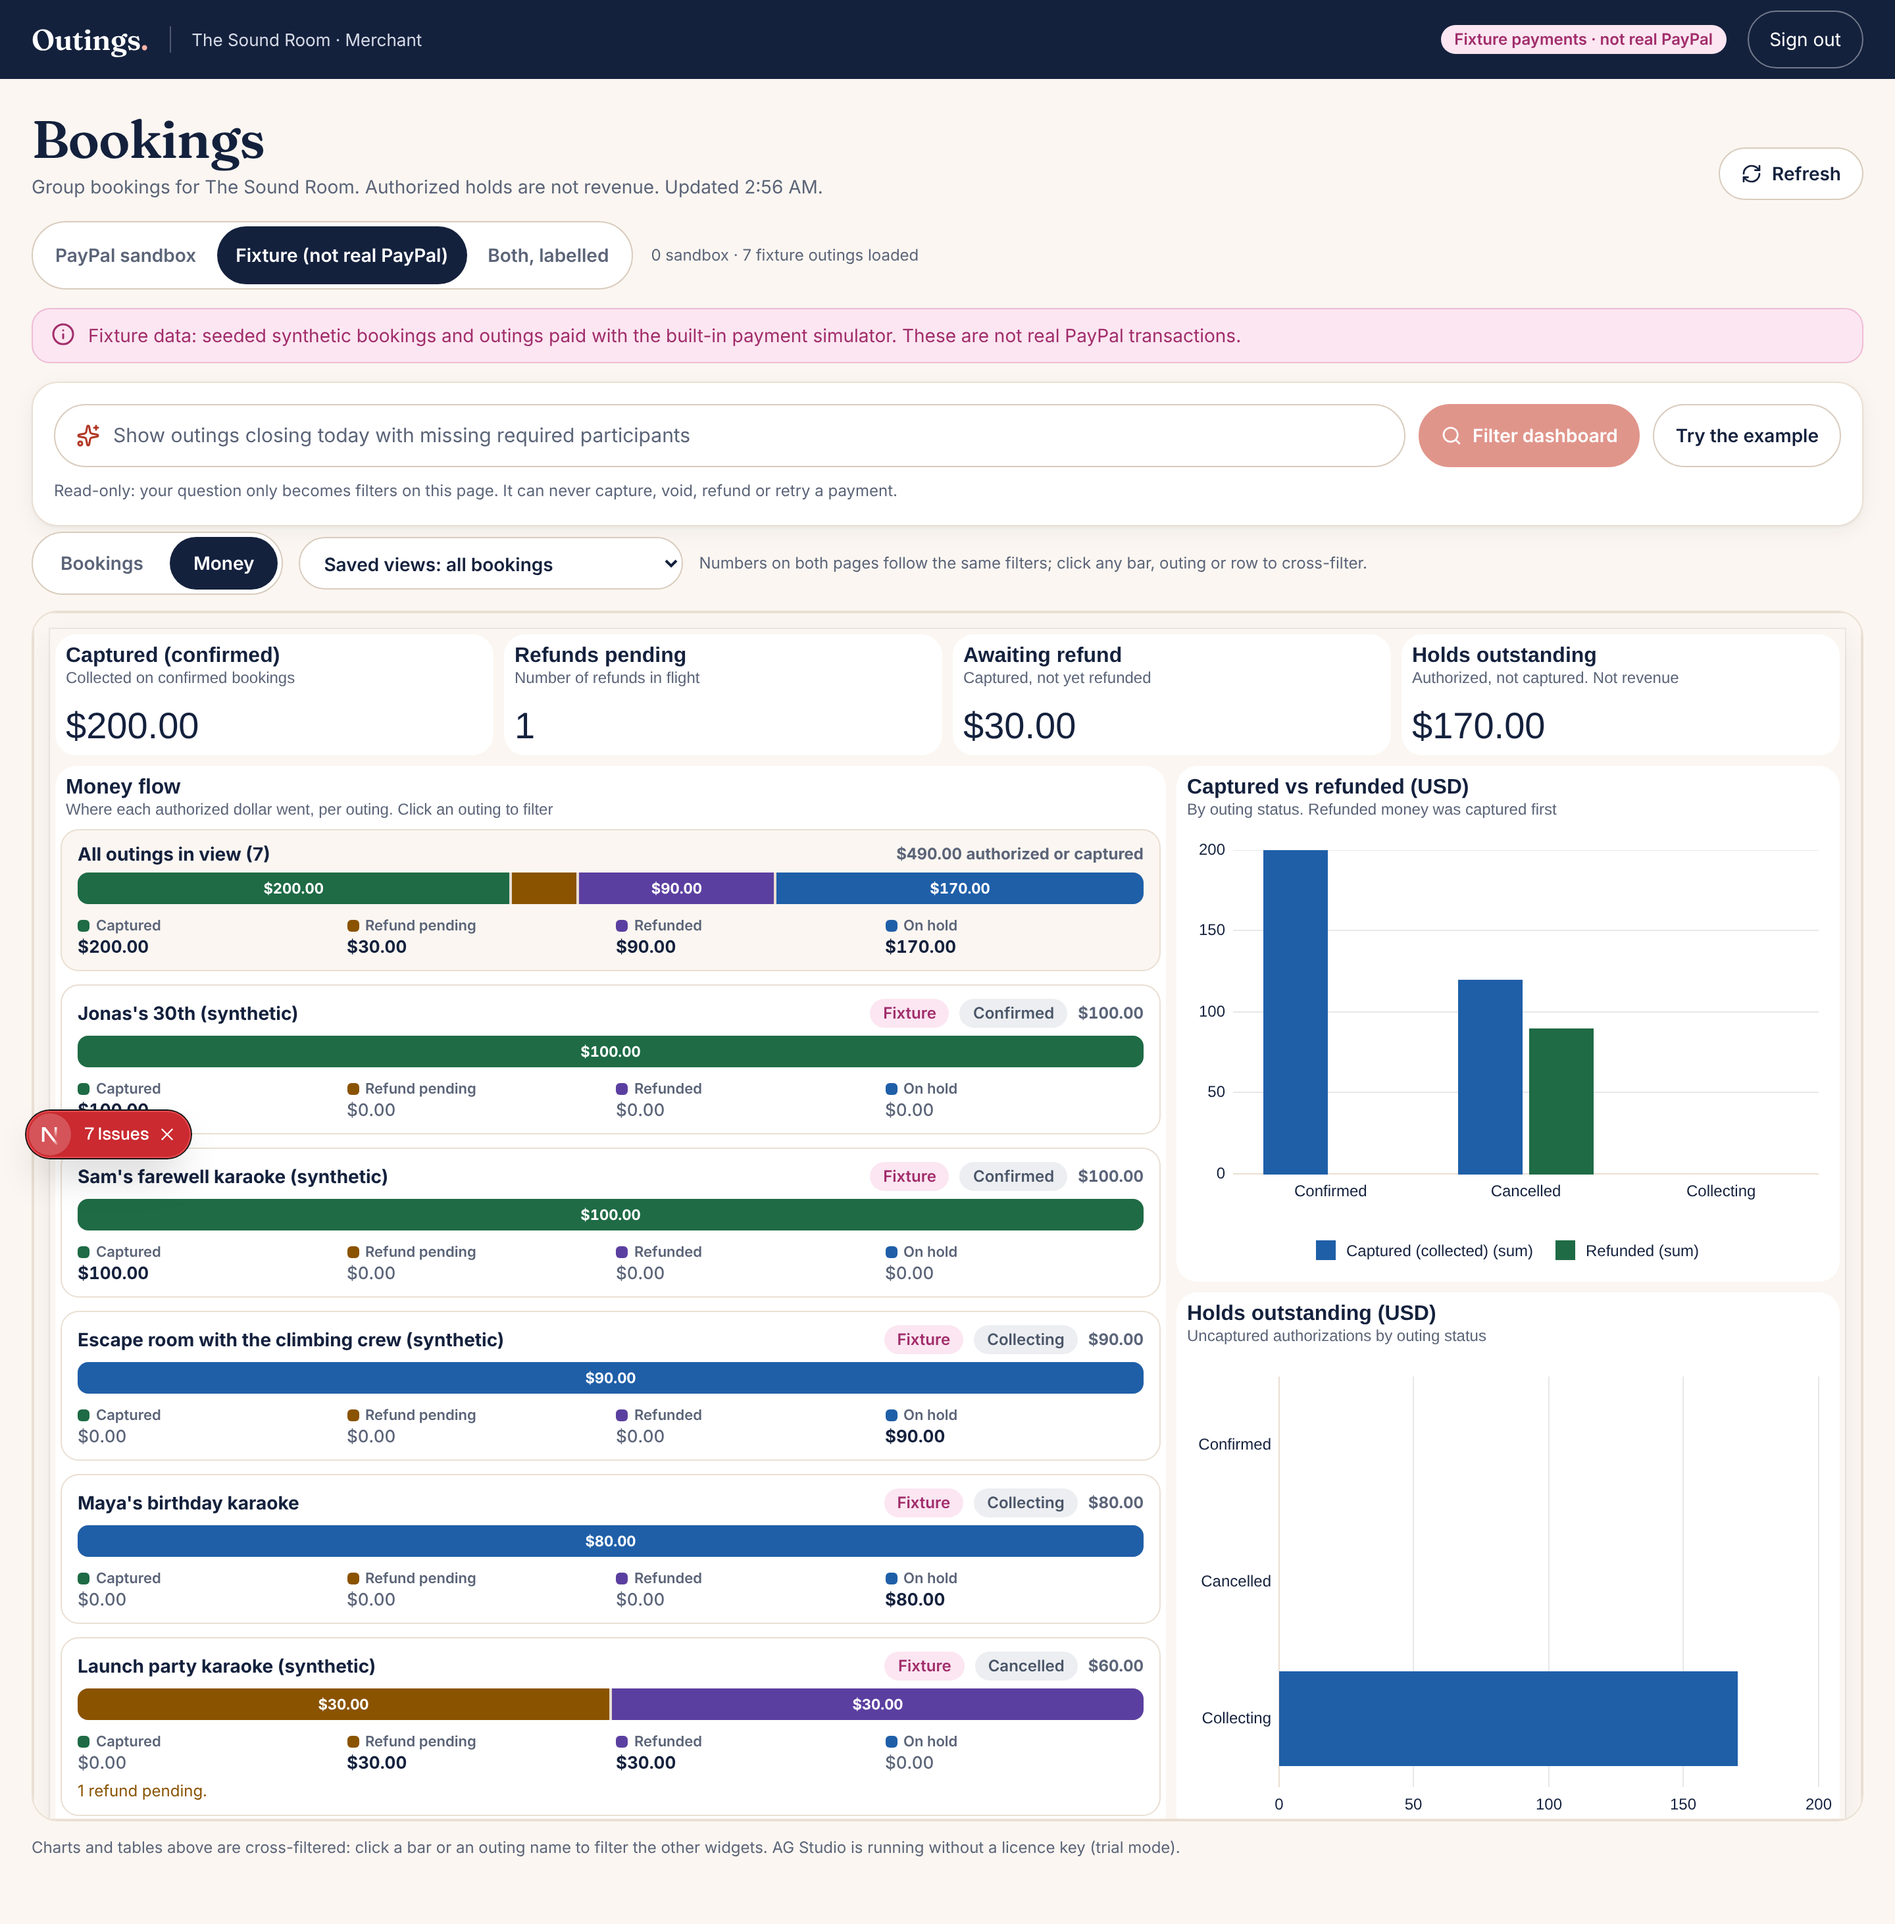
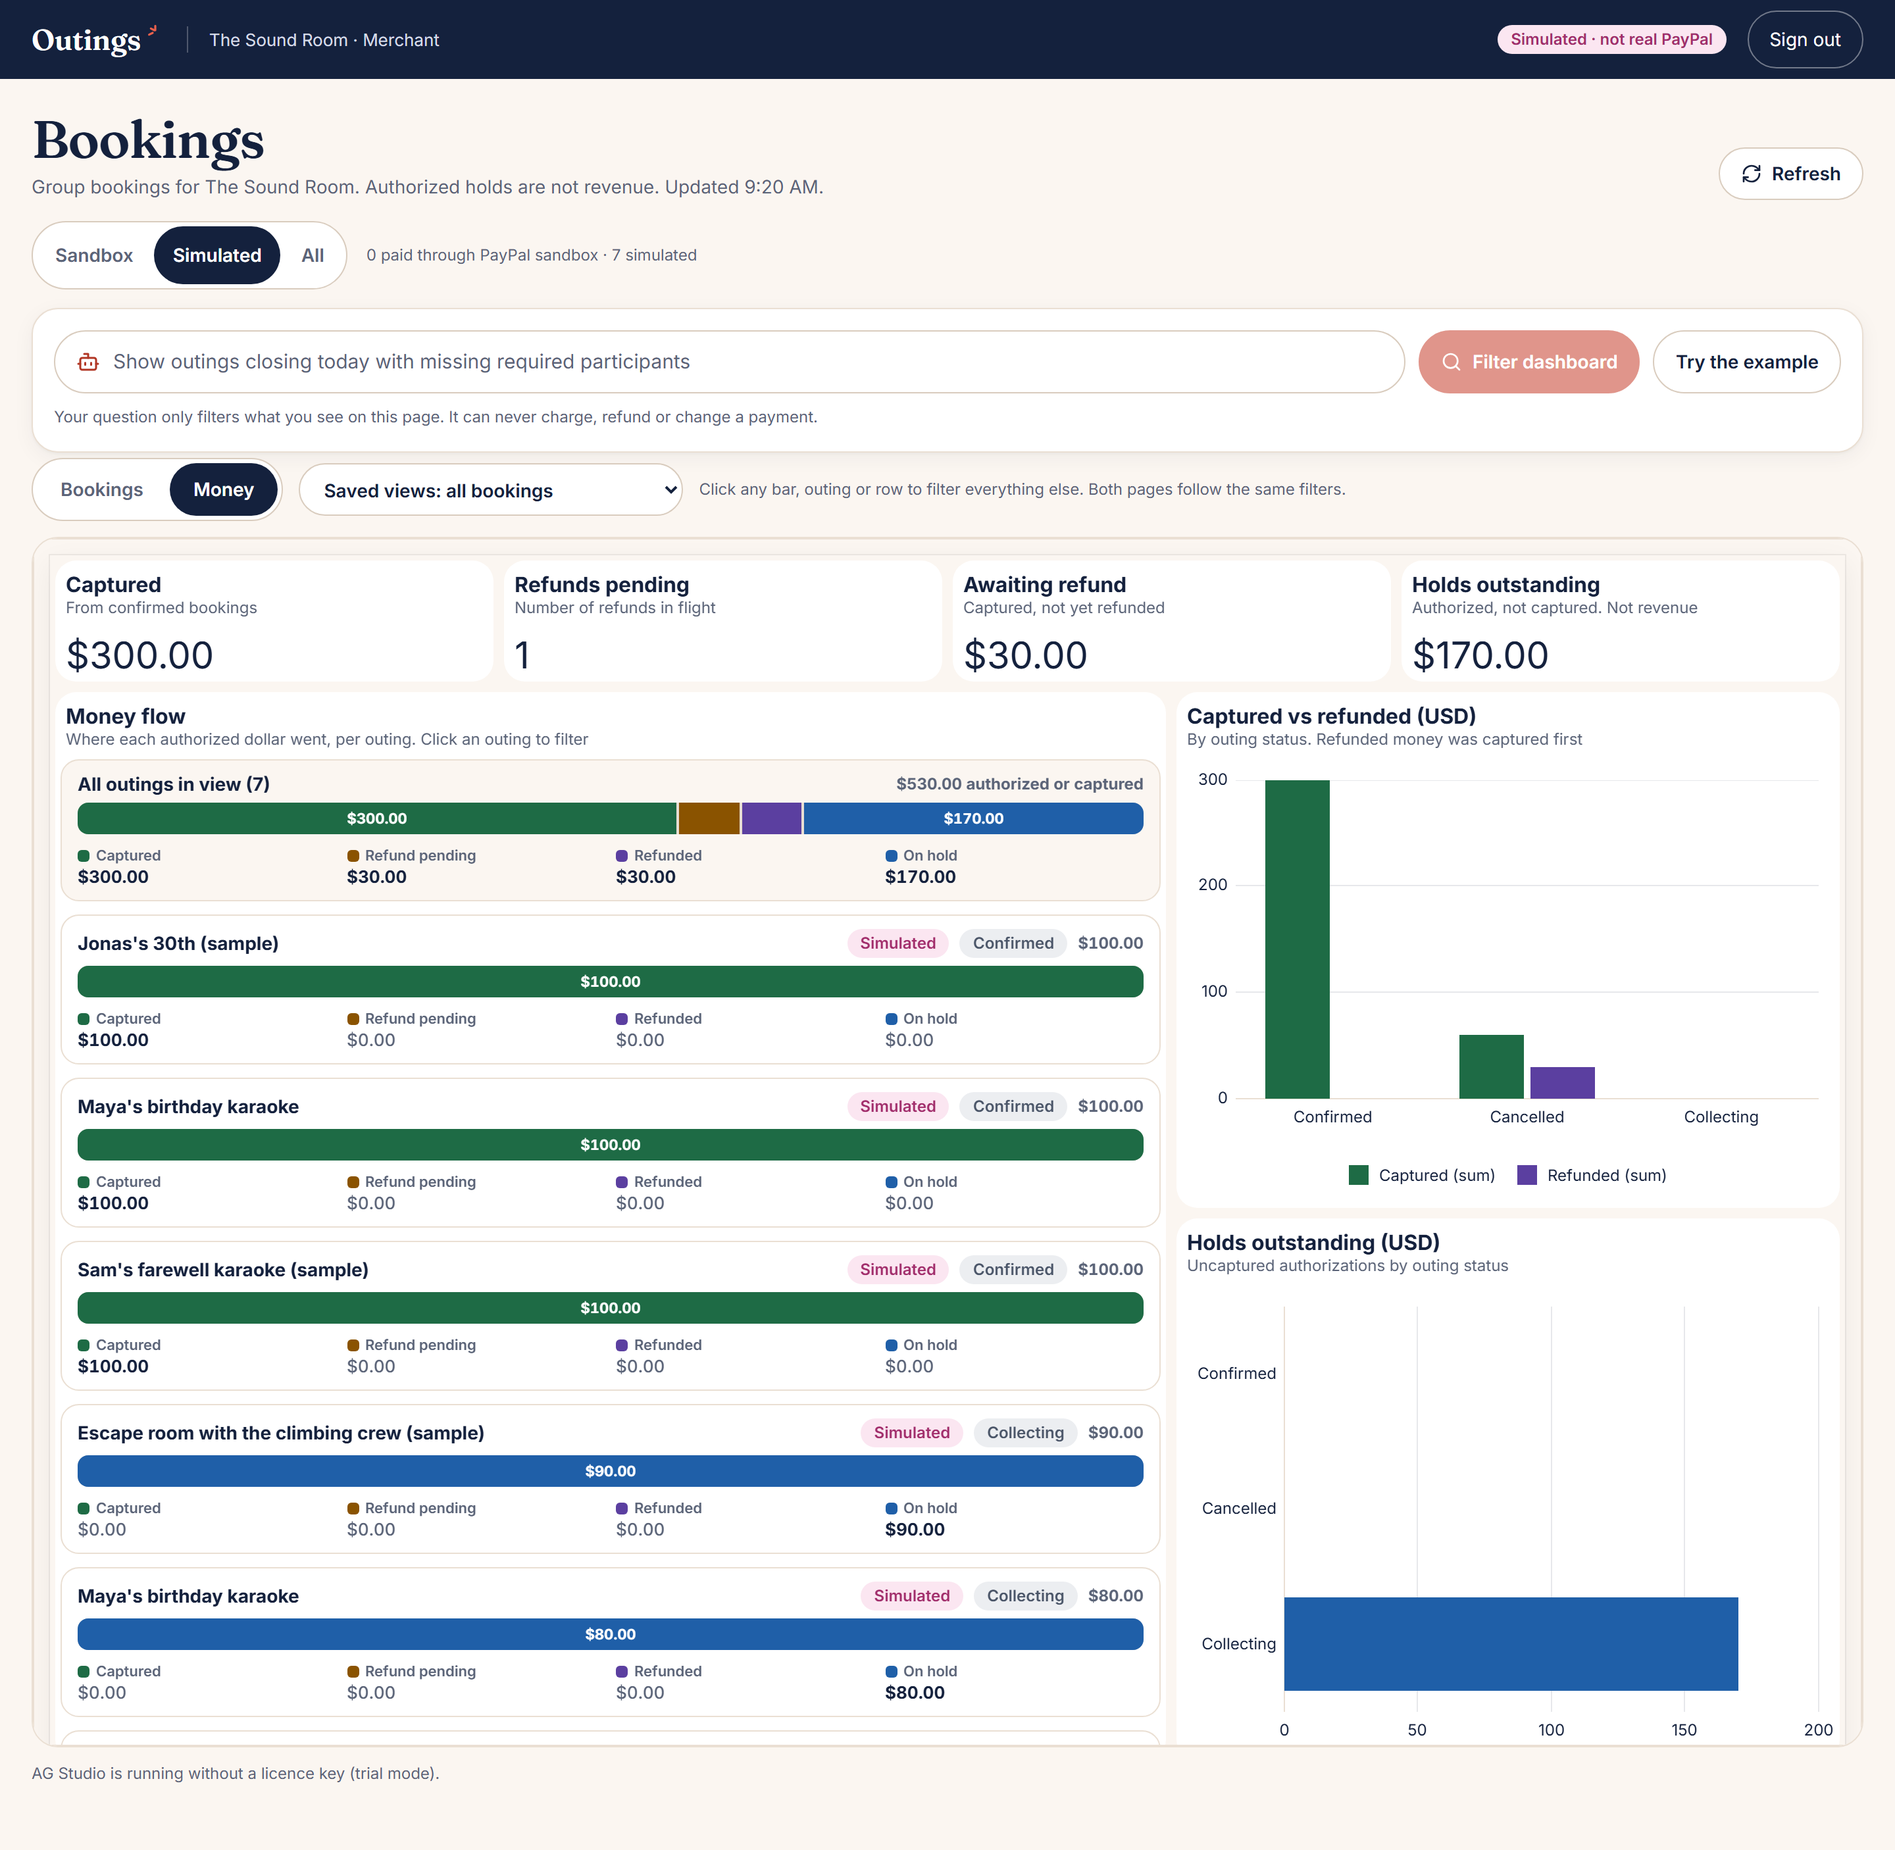
Devpost paste sheet, and the last two stale screenshots
- docs/DEVPOST_PASTE.md: the ready-to-paste Devpost fields, carried
  over from the demo-video branch (the only place it existed) and
  brought up to date: "Simulated" / "Sample" labels, per-person budget
  poker, the hosted demo link, and a gallery built from the repo's own
  screenshots since the owner records the video personally.
- The karaoke e2e now also shoots /how-it-works and the dashboard's
  Money page, so every screenshot the docs use comes from the current
  production build.

Verified: tsc and eslint clean; the karaoke e2e passes with the new
shots. Full suites last ran on 218e2c2 (vitest 527/527, Playwright 8/8);
only this spec, screenshots and docs changed since.

diff --git a/tests/e2e/karaoke.spec.ts b/tests/e2e/karaoke.spec.ts
@@ -46,6 +46,9 @@ test("karaoke for Maya: plan, vote privately, commit, settle at the deadline, me
     await visitor.page.goto("/");
     await expect(visitor.page.getByRole("heading", { level: 1 })).toBeVisible();
     await shot(visitor.page, "landing", { fullPage: false });
+    await visitor.page.goto("/how-it-works");
+    await expect(visitor.page.getByRole("heading", { level: 1 })).toBeVisible();
+    await shot(visitor.page, "how-it-works");
   });
 
   await test.step("(a) organizer writes the brief and sees what the (sample) AI understood", async () => {
@@ -285,6 +288,15 @@ test("karaoke for Maya: plan, vote privately, commit, settle at the deadline, me
     // AG Studio renders charts asynchronously; wait until no widget is still loading.
     await expect(page.locator("#studio-frame").getByText("Loading...").filter({ visible: true })).toHaveCount(0, { timeout: 30_000 });
     await shot(page, "merchant-dashboard");
+
+    // The Money page: where each authorized dollar went.
+    const loading = page.locator("#studio-frame").getByText("Loading...").filter({ visible: true });
+    await page.getByRole("tab", { name: "Money", exact: true }).click();
+    await expect(page.getByRole("tab", { name: "Money", exact: true })).toHaveAttribute("aria-selected", "true");
+    await expect(loading).toHaveCount(0, { timeout: 30_000 });
+    await shot(page, "merchant-money");
+    await page.getByRole("tab", { name: "Bookings", exact: true }).click();
+    await expect(loading).toHaveCount(0, { timeout: 30_000 });
 
     // Natural-language query becomes read-only filters (FIXTURE parser here, and labelled as such).
     await page.getByRole("button", { name: "Try the example" }).click();

diff --git a/docs/DEVPOST_PASTE.md b/docs/DEVPOST_PASTE.md
@@ -1,0 +1,98 @@
+# Devpost: ready-to-paste fields
+
+Copy each block into the matching Devpost field. Lines marked **[A]** apply only if real Claude has been verified (`npx tsx scripts/ai-smoke.ts` was run with the key and its evidence file is committed under `docs/evidence/`). Lines marked **[B]** apply if it has not. Delete the one that does not apply, and delete every bracket before pasting. The long "About the project" text stays in [HACKATHON_SUBMISSION.md](HACKATHON_SUBMISSION.md); this file covers the short fields, the gallery, the limitations paragraph and the YouTube upload.
+
+## Project name (54 characters)
+
+```
+Outings — group bookings where nobody fronts the money
+```
+
+Shorter alternative if the field is tight: `Outings`
+
+## Elevator pitch / tagline (191 of 200 characters)
+
+```
+Plan together. Commit individually. Pay only when everyone is in. Friends each authorize a maximum share with PayPal; at the deadline a server captures the exact share or releases every hold.
+```
+
+## Built with (tags)
+
+Type them one by one so Devpost matches its own tag names:
+
+```
+next.js, react, typescript, tailwindcss, node.js, postgresql, drizzle-orm, zod, paypal, paypal-rest-api, anthropic, claude, ag-grid, ag-studio, vitest, playwright
+```
+
+Once the hosted demo is live, add the platform it runs on. The deployment session chose a DigitalOcean VPS with Docker Compose and Caddy, so that's `digitalocean, docker, caddy`.
+
+## Links ("Try it out")
+
+| Label | URL |
+|---|---|
+| Source code (MIT) | https://github.com/Baymoor/PayPal-AI-Hackathon-2026 |
+| Live demo | https://outings.baymoor.dev (check it runs the final version first) |
+| Judge guide | https://github.com/Baymoor/PayPal-AI-Hackathon-2026/blob/main/docs/JUDGE_GUIDE.md |
+| PayPal sandbox evidence | https://github.com/Baymoor/PayPal-AI-Hackathon-2026/blob/main/docs/evidence/README.md |
+
+Check that each URL opens in a private window (signed out) before submitting.
+
+## Image gallery, in this order
+
+The pictures are in `docs/screenshots/`, taken from the production build by the browser tests. Devpost recommends 3:2 for gallery images; crop if a thumbnail cuts badly. For the PayPal sandbox proof, screenshot the result table in [evidence/README.md](evidence/README.md) or your own PayPal sandbox dashboard.
+
+| # | File | Caption to paste |
+|---|---|---|
+| 1 | `landing.png` (also the thumbnail) | Plan together. Commit individually. Pay only when everyone is in. |
+| 2 | `budget-poker.png` | Budget poker: everyone privately answers "What would you personally pay?" The API never returns anyone else's vote. |
+| 3 | `reveal.png` | The reveal shows how many chose each amount, never who. |
+| 4 | `venue-cards.png` | The app turns the agreed $20 into each venue's share: a $100 room is $20 each with 5 paying. |
+| 5 | `waiting.png` | Each payer authorizes a maximum. "$20 authorized · estimated final share $20 · not charged yet." (labelled payment simulator) |
+| 6 | `confirmed.png` | At the deadline the server charges each exact share, or releases every hold. |
+| 7 | `merchant-dashboard.png` | AG Studio, Bookings page: custom Booking Readiness widget, cross-filtering charts, KPIs and grid. |
+| 8 | `merchant-money.png` | AG Studio, Money page: where each authorized dollar went. Holds are never revenue. |
+
+## Limitations (paste as its own section, "Limitations and what is real")
+
+> Outings is a sandbox prototype, and we want to be exact about what is real.
+>
+> **Real PayPal sandbox.** The payment adapter is verified against the PayPal REST sandbox: authorize, a $10 final capture of a $20 hold (PayPal then released the rest), idempotent capture replay, void, and refund. One full outing also ran through the app itself: three payers each authorized $50, and at the deadline the server captured $33.34, $33.33 and $33.33, exactly $100. All three holds were approved from a single sandbox buyer account. Reading every authorization back from PayPal matched the app's records.
+>
+> **Simulated, and labelled on screen.** The one-click scenarios on `/demo`, including the failed capture and the refund recovery in the video, use our payment simulator ("Simulated · not real PayPal"), not PayPal. PayPal webhook delivery and PayPal's negative-testing headers are implemented but not yet verified against PayPal.
+>
+> **AI.** [A] Claude extracts the plan from the brief, ranks catalogue offers, summarizes the budget reveal and answers read-only questions in the merchant dashboard, including AG Studio's agent panel. [B] The Claude integration is implemented and tested against a mocked SDK, but not yet verified against the Anthropic API, so the demo and video use a clearly labelled stand-in ("Sample AI text (no model call)") instead. In every mode, AI never decides who pays, how much or when; plain server code does.
+>
+> **Not a real booking.** The venues and their catalogue are fictional. A confirmed outing means the group's money was settled against a demo catalogue offer, not that a real venue was reserved.
+>
+> **Scope.** One currency (USD), one pricing model (a fixed total split equally), a small fictional catalogue, in-memory rate limiting. No escrow, no live charges, not production financial infrastructure.
+
+## YouTube upload
+
+**Title (63 characters):**
+
+```
+Outings — group bookings where nobody fronts the money (2:4X demo)
+```
+
+Replace `2:4X` with the real length, or drop the brackets.
+
+**Description:**
+
+```
+Outings is an independent project for the PayPal AI Hackathon 2026. Friends plan an outing together, say privately what they'd each pay, and each authorizes a maximum share with PayPal. At the deadline a server job captures each exact share, or releases every hold if someone is missing.
+
+What is real and what is simulated:
+- The PayPal sandbox result in the video (three $50 holds, $33.34 + $33.33 + $33.33 captured) is from a real PayPal REST sandbox run on 7 Nov 2026, approved from one sandbox buyer account. No real money moves anywhere.
+- The other payments on screen use a labelled payment simulator ("Simulated · not real PayPal").
+- [A] The plan extraction and the AG Studio agent use Claude (Anthropic API).
+- [B] The AI on screen is a labelled stand-in ("Sample AI text (no model call)"); the Claude integration is implemented but was not verified when this was recorded.
+- The venues are fictional; no real venue is booked.
+
+Source (MIT): https://github.com/Baymoor/PayPal-AI-Hackathon-2026
+Live demo: https://outings.baymoor.dev
+Evidence: https://github.com/Baymoor/PayPal-AI-Hackathon-2026/blob/main/docs/evidence/README.md
+
+Not affiliated with PayPal, AG Grid or Anthropic.
+```
+
+**Settings:** Visibility **Public** (not Unlisted), "No, it's not made for kids", no music. After publishing, open the link in a private window and check that the length shows under 3:00.
